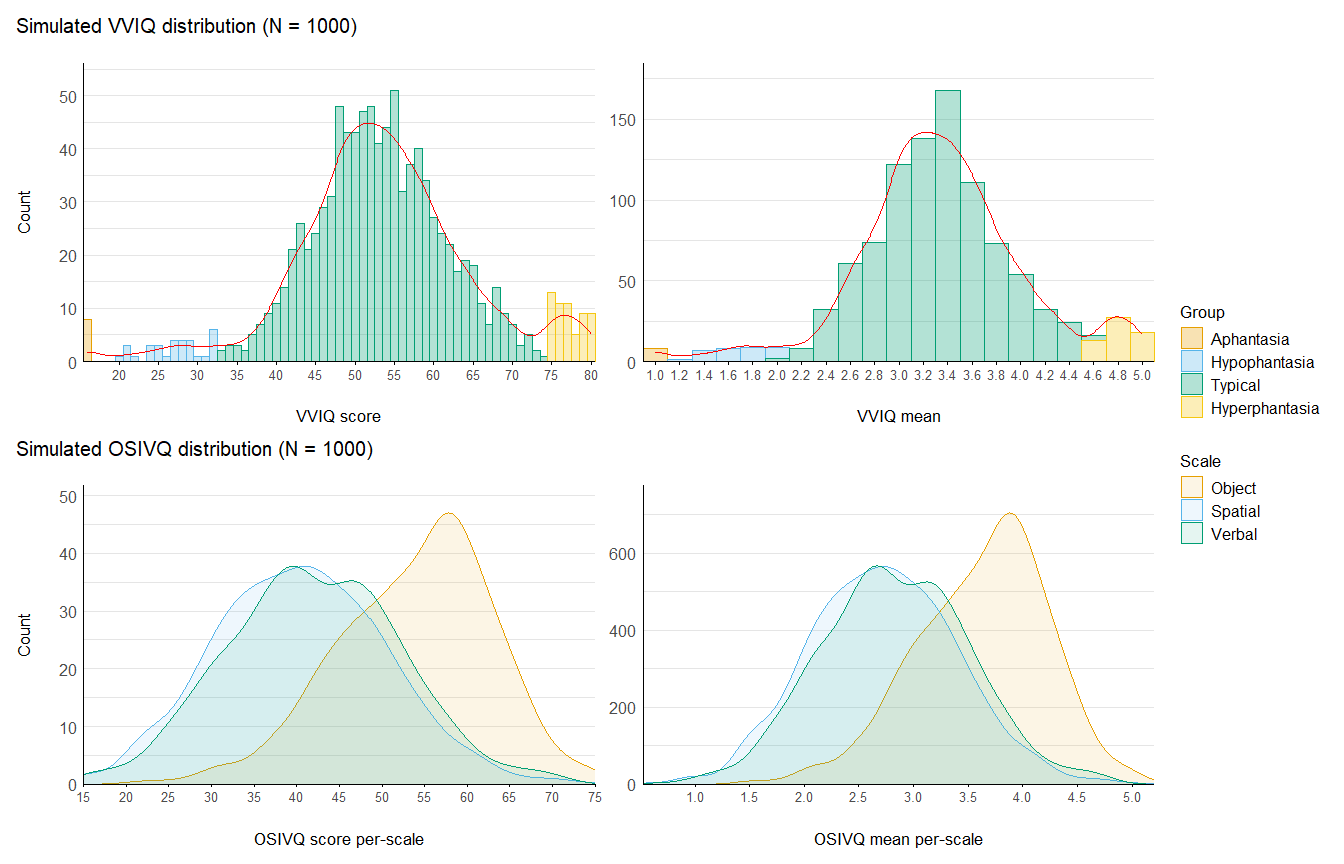
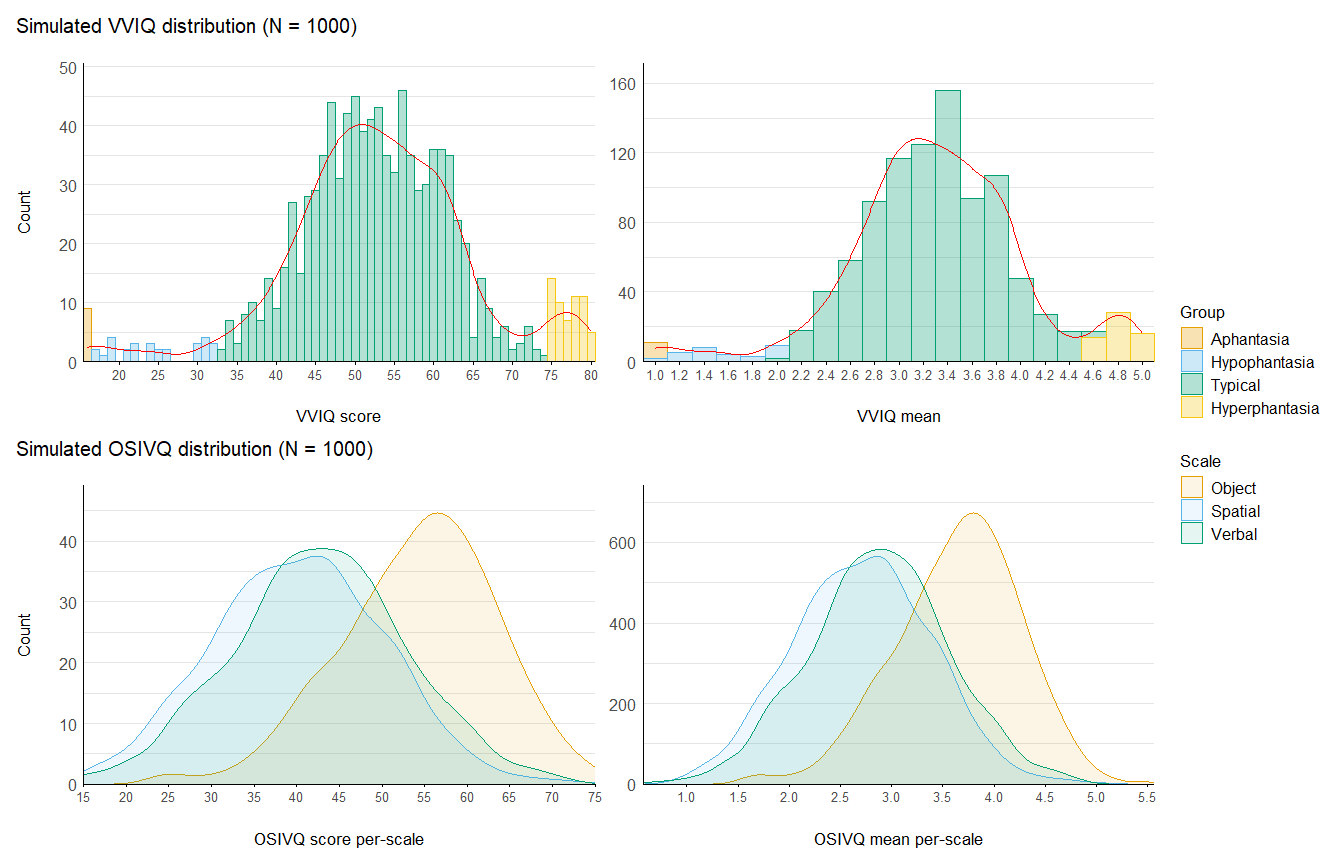
starting to generalize

diff --git a/README.md b/README.md
@@ -13,37 +13,99 @@ complex settings such as multivariate analyses or multilevel modelling,
 simulation can be a powerful tool to do these tasks by allowing to test
 intricate computations on synthetic data.
 
-This repository contains code to simulate data from two mental imagery
-questionnaires I used often: the [Vividness of Visual Imagery
-Questionnaire
-(VVIQ)](https://bpspsychub.onlinelibrary.wiley.com/doi/10.1111/j.2044-8295.1973.tb01322.x)
-and the [Object-Spatial Imagery and Verbal
-Questionnaire](https://onlinelibrary.wiley.com/doi/10.1002/acp.1473).
-The simulation script (`scripts/simulate_questionnaires.R`) is heavily
-commented to explain the rationale behind the code and the choices made.
-The script is also designed to be easily adaptable to other
-questionnaires. It shows methods to:
-
-- Simulate score distributions from various types of information (e.g.,
-  quantile percentages, means, sd, skewness).
-
-- Simulate different distributions for sub-scales or sub-groups in the
-  sample.
-
-- Correlate sub-scales with different types of distributions.
-
-- Simulate individual ordinal items from the total scores of each
-  subject.
-
-`scripts/plot_questionnaires.R` contains two functions associated with
-the questionnaires to provide convenient plotting methods.
-
-## Examples
+> I found out (*after the deed, of course*) that several packages
+> already existed that could have eased my work. The closest to what I
+> coded here is the
+> [`LikertMakeR`](https://github.com/WinzarH/LikertMakeR) package, which
+> is really comprehensive. Also check out
+> [`latent2likert`](https://github.com/markolalovic/latent2likert) for a
+> more item-based simulation approach. Still, I feel like I came up with
+> pretty straightforward solutions to my problems so I decided to share
+> them. *Note: this is not a package, simply because I haven’t had the
+> time to learn how to make one. I’m just sharing some scripts that I
+> believe could be useful.*
 
 ``` r
 source("scripts/simulate_questionnaires.R")
 source("scripts/plot_questionnaires.R")
 ```
+
+## Score-based approach
+
+My initial problem was to find a way to simulate a fixed number of
+bounded ordinal variables (questionnaire items) that sum to a given
+score. I wanted to be able to simulate the score distributions of a
+whole population on a multi-item questionnaire based on literature or
+assumptions, ***then*** simulate individual items making up the scale
+(which is the reverse process of more “item-based” approaches like
+[`latent2likert`](https://github.com/markolalovic/latent2likert)). This
+resulted in the `simulate_items` function[^1]: given a score, a number
+of items, a minimum and a maximum value, it returns a vector of
+simulated items.
+
+``` r
+# Subject with a score of 32 on a 12-item questionnaire ranging from 1 to 5
+simulate_items(score = 32, n_items = 12, min = 1, max = 5)
+```
+
+     [1] 1 4 2 2 3 2 3 3 2 1 4 5
+
+``` r
+# Subject with a score of 45 on a 8-item questionnaire ranging from 1 to 7
+simulate_items(score = 45, n_items = 8, min = 1, max = 7)
+```
+
+    [1] 7 7 2 4 6 6 7 6
+
+It can be mapped on a distribution to simulate the items for a whole
+sample of subjects.
+
+``` r
+n_subjects <- 1000
+
+# Normal distribution of scores
+df <- 
+  tibble(
+    subject = 1:n_subjects,
+    score = rnorm(n_subjects, mean = 32, sd = 5) |> round()
+  ) |>
+  rowwise() |> 
+  mutate(item = list(simulate_items(score, 12, 1, 5))) |> 
+  unnest_wider(item, names_sep = "_")
+
+df |> head() |> display()
+```
+
+| subject | score | item_1 | item_2 | item_3 | item_4 | item_5 | item_6 | item_7 | item_8 | item_9 | item_10 | item_11 | item_12 |
+|:---|---:|---:|---:|---:|---:|---:|---:|---:|---:|---:|---:|---:|---:|
+| 1 | 35 | 1 | 2 | 5 | 3 | 5 | 2 | 2 | 3 | 2 | 5 | 2 | 3 |
+| 2 | 40 | 4 | 2 | 5 | 2 | 3 | 4 | 3 | 2 | 4 | 4 | 3 | 4 |
+| 3 | 28 | 1 | 2 | 2 | 3 | 2 | 1 | 2 | 2 | 4 | 3 | 2 | 4 |
+| 4 | 31 | 1 | 3 | 4 | 2 | 3 | 2 | 3 | 5 | 1 | 3 | 3 | 1 |
+| 5 | 32 | 2 | 2 | 2 | 3 | 3 | 2 | 1 | 4 | 5 | 4 | 2 | 2 |
+| 6 | 33 | 5 | 4 | 2 | 2 | 3 | 2 | 2 | 3 | 4 | 1 | 2 | 3 |
+
+<!-- It shows methods to: -->
+<!-- -   Simulate score distributions from various types of information (e.g., quantile percentages, means, sd, skewness). -->
+<!-- -   Simulate different distributions for sub-scales or sub-groups in the sample. -->
+<!-- -   Correlate sub-scales with different types of distributions. -->
+<!-- -   Simulate individual ordinal items from the total scores of each subject. -->
+
+The simulation script (`scripts/simulate_questionnaires.R`) is heavily
+commented to explain the rationale behind the code and the choices made.
+The script is also designed to be easily adaptable to other
+questionnaires. `scripts/plot_questionnaires.R` contains two functions
+associated with the questionnaires to provide convenient plotting
+methods.
+
+## VVIQ and OSIVQ
+
+This repository also contains code to simulate data from two mental
+imagery questionnaires I used often: the [Vividness of Visual Imagery
+Questionnaire
+(VVIQ)](https://bpspsychub.onlinelibrary.wiley.com/doi/10.1111/j.2044-8295.1973.tb01322.x)
+and the [Object-Spatial Imagery and Verbal
+Questionnaire](https://onlinelibrary.wiley.com/doi/10.1002/acp.1473).
 
 `simulate_vviq` creates a data frame with a given number of subjects,
 simulating VVIQ scores and means for four groups defined in aphantasia
@@ -65,10 +127,10 @@ df_vviq |>
 
 | subject | group | score_vviq | mean_vviq | vviq_item_1 | vviq_item_2 | vviq_item_3 | vviq_item_4 | vviq_item_5 | vviq_item_6 | vviq_item_7 | vviq_item_8 | vviq_item_9 | vviq_item_10 | vviq_item_11 | vviq_item_12 | vviq_item_13 | vviq_item_14 | vviq_item_15 | vviq_item_16 |
 |:---|---:|---:|---:|---:|---:|---:|---:|---:|---:|---:|---:|---:|---:|---:|---:|---:|---:|---:|---:|
-| 34 | aph | 16 | 1.00 | 1 | 1 | 1 | 1 | 1 | 1 | 1 | 1 | 1 | 1 | 1 | 1 | 1 | 1 | 1 | 1 |
-| 11 | hypo | 21 | 1.31 | 1 | 1 | 2 | 1 | 1 | 1 | 2 | 1 | 1 | 3 | 1 | 1 | 1 | 2 | 1 | 1 |
-| 1 | typical | 55 | 3.44 | 3 | 2 | 2 | 1 | 4 | 3 | 4 | 5 | 4 | 4 | 4 | 3 | 3 | 3 | 5 | 5 |
-| 37 | hyper | 80 | 5.00 | 5 | 5 | 5 | 5 | 5 | 5 | 5 | 5 | 5 | 5 | 5 | 5 | 5 | 5 | 5 | 5 |
+| 130 | aph | 16 | 1.00 | 1 | 1 | 1 | 1 | 1 | 1 | 1 | 1 | 1 | 1 | 1 | 1 | 1 | 1 | 1 | 1 |
+| 9 | hypo | 24 | 1.50 | 1 | 1 | 1 | 1 | 1 | 4 | 1 | 1 | 2 | 3 | 2 | 1 | 1 | 2 | 1 | 1 |
+| 1 | typical | 56 | 3.50 | 2 | 3 | 2 | 3 | 3 | 3 | 4 | 4 | 5 | 1 | 5 | 5 | 3 | 4 | 4 | 5 |
+| 5 | hyper | 78 | 4.88 | 5 | 5 | 5 | 5 | 5 | 5 | 5 | 5 | 4 | 5 | 5 | 5 | 5 | 5 | 4 | 5 |
 
 `simulate_osivq` does the same for the OSIVQ, which comprises three
 sub-scales: Object, Spatial and Verbal. There are no conventional
@@ -84,12 +146,12 @@ df_osivq |>
 
 | mean_object | mean_spatial | mean_verbal | score_object | score_spatial | score_verbal | osivq_item_o_1 | osivq_item_o_2 | osivq_item_o_3 | osivq_item_o_4 | osivq_item_o_5 | osivq_item_o_6 | osivq_item_o_7 | osivq_item_o_8 | osivq_item_o_9 | osivq_item_o_10 | osivq_item_o_11 | osivq_item_o_12 | osivq_item_o_13 | osivq_item_o_14 | osivq_item_o_15 | osivq_item_s_1 | osivq_item_s_2 | osivq_item_s_3 | osivq_item_s_4 | osivq_item_s_5 | osivq_item_s_6 | osivq_item_s_7 | osivq_item_s_8 | osivq_item_s_9 | osivq_item_s_10 | osivq_item_s_11 | osivq_item_s_12 | osivq_item_s_13 | osivq_item_s_14 | osivq_item_s_15 | osivq_item_v_1 | osivq_item_v_2 | osivq_item_v_3 | osivq_item_v_4 | osivq_item_v_5 | osivq_item_v_6 | osivq_item_v_7 | osivq_item_v_8 | osivq_item_v_9 | osivq_item_v_10 | osivq_item_v_11 | osivq_item_v_12 | osivq_item_v_13 | osivq_item_v_14 | osivq_item_v_15 |
 |:---|---:|---:|---:|---:|---:|---:|---:|---:|---:|---:|---:|---:|---:|---:|---:|---:|---:|---:|---:|---:|---:|---:|---:|---:|---:|---:|---:|---:|---:|---:|---:|---:|---:|---:|---:|---:|---:|---:|---:|---:|---:|---:|---:|---:|---:|---:|---:|---:|---:|---:|
-| 3.91 | 2.84 | 3.27 | 58 | 42 | 49 | 5 | 2 | 5 | 2 | 4 | 2 | 5 | 5 | 5 | 3 | 4 | 4 | 3 | 5 | 4 | 3 | 4 | 3 | 1 | 1 | 1 | 5 | 2 | 3 | 2 | 2 | 5 | 3 | 3 | 4 | 5 | 2 | 1 | 3 | 5 | 4 | 2 | 2 | 5 | 2 | 4 | 5 | 3 | 4 | 2 |
-| 3.45 | 2.80 | 3.56 | 51 | 42 | 53 | 2 | 4 | 3 | 4 | 2 | 5 | 4 | 3 | 3 | 4 | 3 | 2 | 5 | 5 | 2 | 1 | 5 | 1 | 2 | 3 | 2 | 5 | 5 | 2 | 3 | 3 | 1 | 4 | 2 | 3 | 2 | 5 | 4 | 5 | 5 | 3 | 5 | 3 | 4 | 2 | 5 | 2 | 1 | 5 | 2 |
-| 3.65 | 2.48 | 2.97 | 54 | 37 | 44 | 5 | 3 | 5 | 3 | 3 | 5 | 2 | 3 | 2 | 3 | 3 | 2 | 5 | 5 | 5 | 5 | 2 | 2 | 1 | 1 | 2 | 5 | 2 | 3 | 2 | 1 | 2 | 2 | 5 | 2 | 3 | 1 | 1 | 1 | 1 | 5 | 5 | 4 | 3 | 3 | 2 | 3 | 5 | 4 | 3 |
-| 3.56 | 2.84 | 2.91 | 53 | 42 | 43 | 4 | 4 | 4 | 4 | 3 | 3 | 5 | 3 | 3 | 5 | 2 | 2 | 2 | 4 | 5 | 1 | 5 | 3 | 2 | 2 | 5 | 1 | 1 | 4 | 2 | 2 | 2 | 5 | 2 | 5 | 2 | 3 | 2 | 4 | 3 | 1 | 2 | 2 | 3 | 4 | 5 | 3 | 3 | 2 | 4 |
-| 3.29 | 2.08 | 2.18 | 49 | 31 | 32 | 5 | 2 | 2 | 4 | 2 | 5 | 3 | 5 | 5 | 1 | 3 | 4 | 3 | 1 | 4 | 2 | 2 | 1 | 5 | 2 | 1 | 2 | 2 | 1 | 1 | 3 | 1 | 3 | 2 | 3 | 1 | 1 | 2 | 3 | 2 | 4 | 2 | 2 | 1 | 4 | 1 | 1 | 3 | 2 | 3 |
-| 3.71 | 4.21 | 1.88 | 55 | 63 | 28 | 5 | 5 | 3 | 4 | 4 | 4 | 5 | 1 | 5 | 4 | 2 | 4 | 1 | 5 | 3 | 4 | 5 | 5 | 4 | 5 | 5 | 5 | 5 | 4 | 3 | 4 | 2 | 3 | 4 | 5 | 2 | 1 | 2 | 2 | 2 | 1 | 3 | 1 | 3 | 1 | 1 | 1 | 3 | 1 | 4 |
+| 3.50 | 3.15 | 2.00 | 52 | 47 | 30 | 4 | 4 | 4 | 5 | 5 | 5 | 2 | 5 | 2 | 4 | 2 | 3 | 2 | 1 | 4 | 5 | 1 | 3 | 3 | 2 | 3 | 5 | 1 | 4 | 4 | 4 | 5 | 2 | 3 | 2 | 2 | 2 | 2 | 4 | 1 | 2 | 2 | 2 | 2 | 2 | 2 | 1 | 1 | 4 | 1 |
+| 2.56 | 2.40 | 2.87 | 38 | 35 | 43 | 4 | 4 | 2 | 2 | 3 | 2 | 2 | 2 | 3 | 3 | 1 | 1 | 1 | 3 | 5 | 1 | 4 | 2 | 3 | 5 | 1 | 3 | 1 | 1 | 2 | 2 | 4 | 1 | 2 | 3 | 3 | 1 | 1 | 1 | 4 | 5 | 5 | 2 | 5 | 2 | 5 | 2 | 2 | 3 | 2 |
+| 3.59 | 1.90 | 2.93 | 53 | 28 | 43 | 5 | 2 | 4 | 2 | 4 | 3 | 5 | 2 | 3 | 2 | 5 | 4 | 4 | 3 | 5 | 1 | 3 | 1 | 1 | 2 | 1 | 3 | 1 | 3 | 2 | 1 | 2 | 2 | 3 | 2 | 2 | 3 | 3 | 3 | 5 | 3 | 2 | 3 | 5 | 3 | 4 | 2 | 1 | 3 | 1 |
+| 2.90 | 4.38 | 2.64 | 43 | 65 | 39 | 3 | 4 | 4 | 3 | 3 | 4 | 1 | 3 | 4 | 1 | 4 | 3 | 2 | 1 | 3 | 5 | 5 | 5 | 5 | 5 | 4 | 5 | 3 | 4 | 3 | 5 | 5 | 2 | 5 | 4 | 3 | 3 | 4 | 1 | 2 | 4 | 1 | 2 | 4 | 1 | 5 | 3 | 2 | 2 | 2 |
+| 3.37 | 2.34 | 3.13 | 50 | 35 | 46 | 2 | 5 | 2 | 4 | 4 | 4 | 2 | 2 | 3 | 3 | 5 | 2 | 5 | 2 | 5 | 3 | 1 | 1 | 2 | 3 | 3 | 1 | 2 | 4 | 4 | 4 | 3 | 2 | 1 | 1 | 2 | 4 | 3 | 3 | 3 | 5 | 2 | 3 | 3 | 3 | 1 | 3 | 3 | 3 | 5 |
+| 3.67 | 2.05 | 3.23 | 54 | 30 | 48 | 2 | 5 | 4 | 4 | 3 | 3 | 4 | 1 | 5 | 3 | 4 | 5 | 4 | 4 | 3 | 1 | 3 | 4 | 2 | 3 | 2 | 4 | 1 | 1 | 2 | 1 | 1 | 2 | 2 | 1 | 2 | 1 | 3 | 5 | 5 | 4 | 4 | 3 | 2 | 2 | 5 | 3 | 3 | 4 | 2 |
 
 Two plotting functions, `plot_vviq` and `plot_osivq`, are provided to
 plot the distributions of the scores and means of the VVIQ and OSIVQ,
@@ -125,3 +187,6 @@ be useful to you! :cherry_blossom:
 > template](https://github.com/m-delem/my-quarto-template): you can find
 > a quick tutorial to use this project structure and an in-depth
 > explanation of its elements in the README of the template.
+
+[^1]: The function is close in purpose to the `makeItemsScale` from the
+    `LikertMakeR` package.
